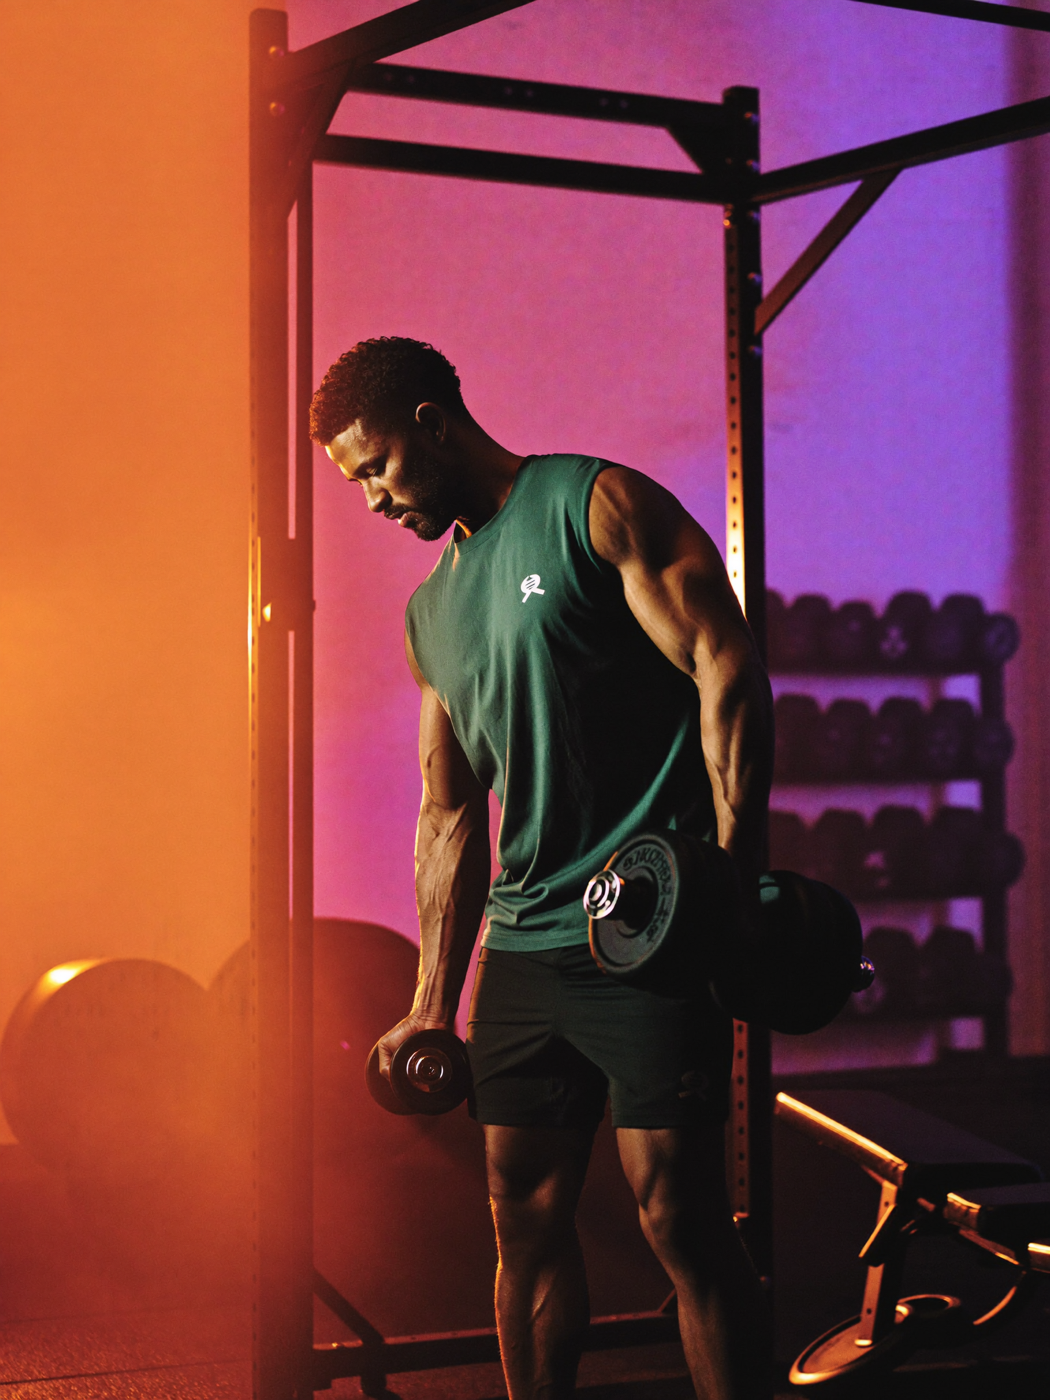
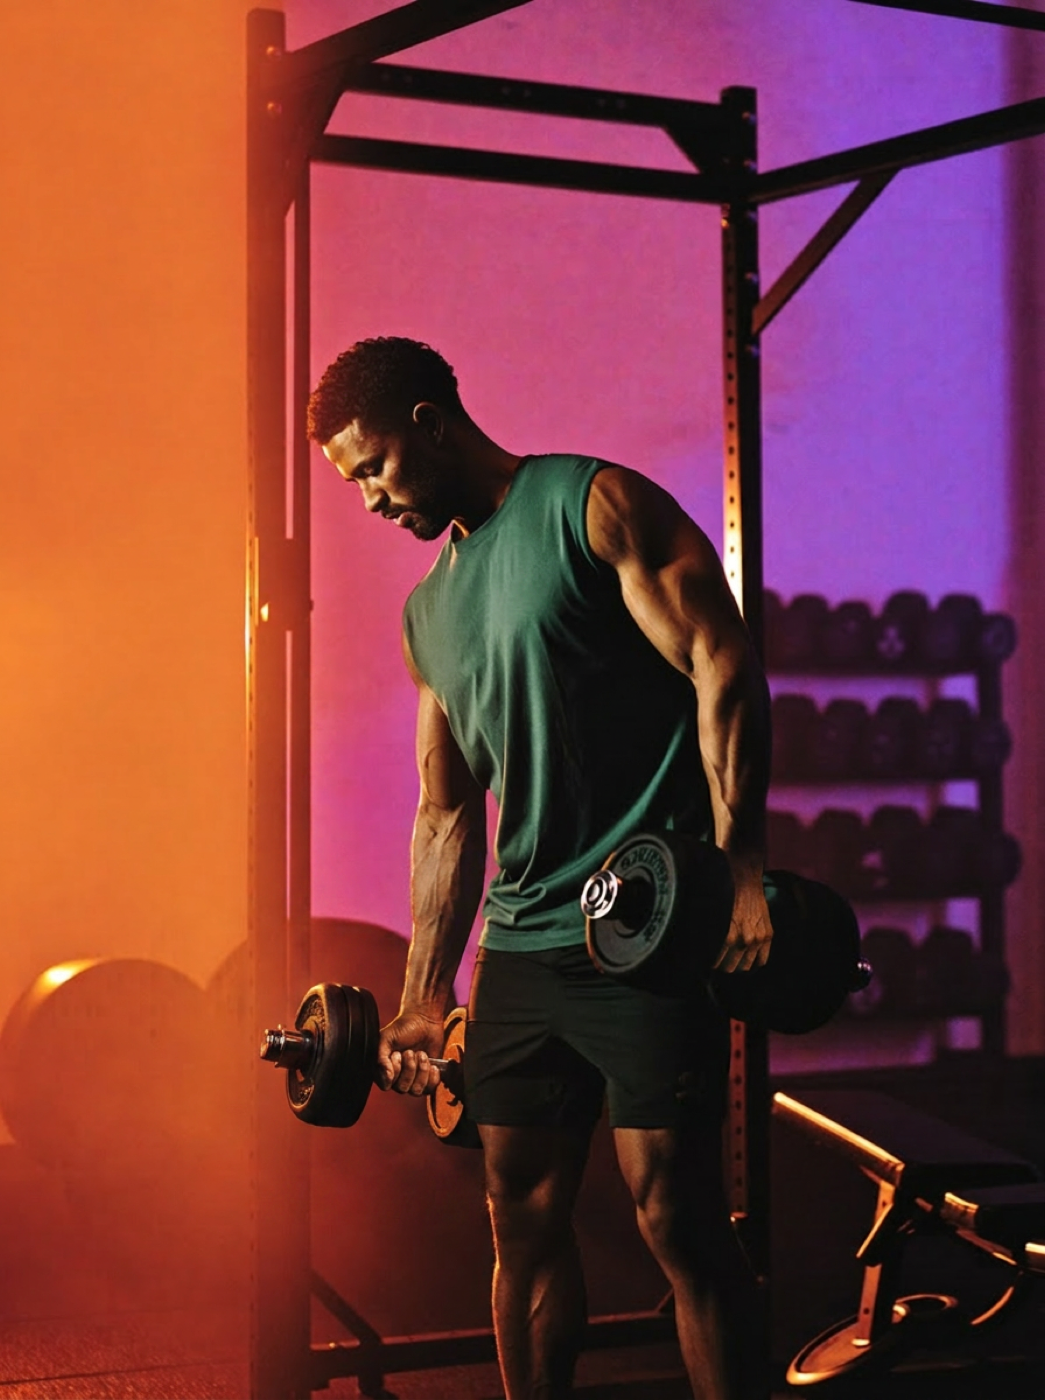
Landing polish: hero legibility, nav hover, gapless marquee, glassmorphism
- Hero: add left scrim + headline drop-shadow + subcopy shadow for legibility;
  Explore-the-Feed (ghost) button is now frosted glass; stats sit in a glass panel
- Nav: glassmorphic bar + animated gradient underline indicator on link hover
- Marquee: repeat enough copies that the loop period always exceeds the viewport
  (was revealing empty space at the end before restarting) — now truly seamless
- Three feature pillars: larger title/body/bullet text
- Global depth pass: .card / .chip / .btn-ghost get blur, layered bg, inset
  highlight and shadows (less flat); new .glass utility
- Fix pillar 1 dumbbell grip and regenerate CTA group to fill the frame
- Step badges already anchored in image corners

diff --git a/src/app/page.tsx b/src/app/page.tsx
@@ -88,15 +88,17 @@ export default function HomePage() {
         />
         {/* Cinematic overlays — keep text legible, deepen brand mood */}
         <div className="absolute inset-0" style={{ background: "linear-gradient(180deg, rgba(10,10,15,.82) 0%, rgba(10,10,15,.25) 38%, rgba(10,10,15,.55) 72%, rgba(10,10,15,.96) 100%)" }} />
+        {/* Left scrim so hero copy stays readable over the photo */}
+        <div className="absolute inset-0" style={{ background: "linear-gradient(90deg, rgba(10,10,15,.92) 0%, rgba(10,10,15,.66) 30%, rgba(10,10,15,.2) 56%, transparent 78%)" }} />
         <div className="absolute inset-0" style={{ background: "radial-gradient(ellipse at 12% 88%, rgba(120,45,15,.45) 0%, transparent 48%), radial-gradient(ellipse at 88% 8%, rgba(90,45,130,.4) 0%, transparent 46%)" }} />
 
         <div className="relative z-10 w-full max-w-[1160px] mx-auto px-8 pb-20 pt-[140px]">
           <span className="chip mb-6 inline-block animate-fadeUp">The social fitness app built around you</span>
-          <h1 style={{ ...bebas, lineHeight: 0.86, letterSpacing: 1, animation: "fadeUp 0.7s ease 0.1s both" }}>
+          <h1 style={{ ...bebas, lineHeight: 0.86, letterSpacing: 1, filter: "drop-shadow(0 3px 16px rgba(0,0,0,.6))", animation: "fadeUp 0.7s ease 0.1s both" }}>
             <span className="text-gradient-white block text-[clamp(56px,11vw,150px)]">FORGE THE</span>
             <span className="text-gradient-brand block text-[clamp(56px,11vw,150px)]">BEST OF YOU</span>
           </h1>
-          <p className="text-[clamp(15px,1.9vw,19px)] max-w-[520px] leading-[1.65] mt-6 mb-9 font-light" style={{ color: "rgba(255,255,255,.7)", animation: "fadeUp 0.7s ease 0.2s both" }}>
+          <p className="text-[clamp(15px,1.9vw,19px)] max-w-[520px] leading-[1.65] mt-6 mb-9 font-light" style={{ color: "rgba(255,255,255,.85)", textShadow: "0 1px 12px rgba(0,0,0,.6)", animation: "fadeUp 0.7s ease 0.2s both" }}>
             Set your goals and gear. Follow guided workouts that earn you XP.
             Challenge your friends on the feed. This is training with a crew behind you.
           </p>
@@ -108,11 +110,11 @@ export default function HomePage() {
             No credit card needed · 1-day workouts free forever
           </p>
 
-          <div className="flex gap-[44px] flex-wrap mt-14 pt-9 border-t" style={{ borderColor: "rgba(255,255,255,.12)", animation: "fadeUp 0.7s ease 0.45s both" }}>
+          <div className="glass inline-flex gap-[40px] gap-y-5 flex-wrap mt-12 px-7 py-5 rounded-3xl" style={{ animation: "fadeUp 0.7s ease 0.45s both" }}>
             {stats.map(([num, label]) => (
               <div key={label}>
                 <div className="text-gradient-white text-[clamp(34px,4vw,48px)] leading-none" style={bebas}>{num}</div>
-                <div className="text-[10px] tracking-[2px] uppercase mt-1.5" style={{ color: "rgba(255,255,255,.5)" }}>{label}</div>
+                <div className="text-[10px] tracking-[2px] uppercase mt-1.5" style={{ color: "rgba(255,255,255,.6)" }}>{label}</div>
               </div>
             ))}
           </div>
@@ -161,11 +163,11 @@ export default function HomePage() {
               {/* Text */}
               <div className={p.flip ? "md:order-1" : ""}>
                 <span className="chip mb-5 inline-block" style={{ color: p.accent, borderColor: "rgba(255,255,255,.16)" }}>{p.chip}</span>
-                <h3 className="text-white whitespace-pre-line mb-5" style={{ ...bebas, fontSize: "clamp(34px,4.5vw,58px)", lineHeight: 0.94 }}>{p.title}</h3>
-                <p className="text-[15.5px] leading-[1.75] font-light mb-7" style={{ color: "rgba(255,255,255,.55)" }}>{p.desc}</p>
+                <h3 className="text-white whitespace-pre-line mb-5" style={{ ...bebas, fontSize: "clamp(38px,5vw,66px)", lineHeight: 0.94 }}>{p.title}</h3>
+                <p className="text-[17px] leading-[1.75] font-light mb-7" style={{ color: "rgba(255,255,255,.62)" }}>{p.desc}</p>
                 <ul className="flex flex-col gap-3 mb-8">
                   {p.bullets.map((b) => (
-                    <li key={b} className="flex items-center gap-3 text-[14px] font-light" style={{ color: "rgba(255,255,255,.75)" }}>
+                    <li key={b} className="flex items-center gap-3 text-[15px] font-light" style={{ color: "rgba(255,255,255,.8)" }}>
                       <span className="flex items-center justify-center rounded-full shrink-0 text-[11px] font-bold text-white" style={{ width: 22, height: 22, background: "linear-gradient(135deg, var(--og), var(--pm))" }}>✓</span>
                       {b}
                     </li>

diff --git a/src/app/globals.css b/src/app/globals.css
@@ -107,15 +107,15 @@ body::before {
   display: inline-flex;
   align-items: center;
   gap: 8px;
-  background: rgba(255,255,255,0.06);
-  color: rgba(255,255,255,0.6);
+  background: rgba(255,255,255,0.1);
+  color: rgba(255,255,255,0.92);
   padding: 11px 24px;
   border-radius: 100px;
   font-size: 11px;
-  font-weight: 500;
+  font-weight: 600;
   letter-spacing: 1.5px;
   text-transform: uppercase;
-  border: 1px solid rgba(255,255,255,0.12);
+  border: 1px solid rgba(255,255,255,0.22);
   cursor: pointer;
   transition: all 0.25s;
   font-family: 'DM Sans', sans-serif;
@@ -123,16 +123,31 @@ body::before {
   overflow: hidden;
   text-overflow: ellipsis;
   white-space: nowrap;
+  backdrop-filter: blur(14px) saturate(140%);
+  -webkit-backdrop-filter: blur(14px) saturate(140%);
+  box-shadow: 0 4px 18px rgba(0,0,0,0.28), inset 0 1px 0 rgba(255,255,255,0.14);
 }
-.btn-ghost:hover { color: #fff; background: rgba(255,255,255,0.1); border-color: rgba(255,255,255,0.2); }
+.btn-ghost:hover { color: #fff; background: rgba(255,255,255,0.18); border-color: rgba(255,255,255,0.38); transform: translateY(-1px); }
 .btn-ghost:disabled { opacity: 0.4; cursor: not-allowed; }
 
 .card {
-  background: rgba(255,255,255,0.03);
+  background: linear-gradient(180deg, rgba(255,255,255,0.06), rgba(255,255,255,0.02));
   border: 1px solid var(--br);
   border-radius: 20px;
   overflow: hidden;
   word-break: break-word;
+  backdrop-filter: blur(12px) saturate(120%);
+  -webkit-backdrop-filter: blur(12px) saturate(120%);
+  box-shadow: 0 12px 34px rgba(0,0,0,0.4), inset 0 1px 0 rgba(255,255,255,0.07);
+}
+
+/* Frosted-glass surface utility */
+.glass {
+  background: linear-gradient(180deg, rgba(255,255,255,0.1), rgba(255,255,255,0.04));
+  border: 1px solid rgba(255,255,255,0.16);
+  backdrop-filter: blur(16px) saturate(140%);
+  -webkit-backdrop-filter: blur(16px) saturate(140%);
+  box-shadow: 0 8px 32px rgba(0,0,0,0.35), inset 0 1px 0 rgba(255,255,255,0.12);
 }
 
 .chip {
@@ -140,12 +155,15 @@ body::before {
   font-size: 10px;
   letter-spacing: 2px;
   text-transform: uppercase;
-  color: rgba(255,255,255,0.5);
-  border: 1px solid rgba(255,255,255,0.12);
-  background: rgba(255,255,255,0.04);
+  color: rgba(255,255,255,0.62);
+  border: 1px solid rgba(255,255,255,0.16);
+  background: rgba(255,255,255,0.07);
+  backdrop-filter: blur(10px);
+  -webkit-backdrop-filter: blur(10px);
   padding: 5px 14px;
   border-radius: 100px;
   font-weight: 500;
+  box-shadow: inset 0 1px 0 rgba(255,255,255,0.08);
 }
 
 .input-field {

diff --git a/src/components/nav.tsx b/src/components/nav.tsx
@@ -24,7 +24,7 @@ export function Nav() {
 
   return (
     <>
-      <nav className="fixed top-0 left-0 right-0 z-[500] px-10 py-3.5 flex items-center justify-between backdrop-blur-[20px]" style={{ background: "rgba(10,10,15,.6)" }}>
+      <nav className="fixed top-0 left-0 right-0 z-[500] px-10 py-3.5 flex items-center justify-between" style={{ background: "rgba(10,10,15,.55)", backdropFilter: "blur(22px) saturate(150%)", WebkitBackdropFilter: "blur(22px) saturate(150%)", borderBottom: "1px solid rgba(255,255,255,.08)", boxShadow: "0 8px 30px rgba(0,0,0,.35)" }}>
         <Link href="/" className="no-underline" style={bebas}>
           <span className="text-[22px] tracking-[3px] text-white opacity-90">
             FIT<span style={{ color: "var(--og)" }}>FORGE</span>
@@ -35,10 +35,14 @@ export function Nav() {
             <Link
               key={link.href}
               href={link.href}
-              className="hide-mobile text-[11px] tracking-[2px] uppercase font-medium no-underline transition-colors hover:text-white/85"
-              style={{ color: "rgba(255,255,255,.45)" }}
+              className="hide-mobile relative group text-[11px] tracking-[2px] uppercase font-medium no-underline transition-colors duration-200 hover:text-white py-1"
+              style={{ color: "rgba(255,255,255,.55)" }}
             >
               {link.label}
+              <span
+                className="absolute left-0 -bottom-0.5 h-[2px] w-full origin-left scale-x-0 rounded-full transition-transform duration-300 ease-out group-hover:scale-x-100"
+                style={{ background: "linear-gradient(135deg, var(--og), var(--og2), var(--pm))" }}
+              />
             </Link>
           ))}
           {session?.user ? (

diff --git a/src/components/marquee.tsx b/src/components/marquee.tsx
@@ -3,14 +3,20 @@
 const bebas = { fontFamily: "'Bebas Neue', sans-serif" };
 
 export function Marquee({ items, reverse = false }: { items: string[]; reverse?: boolean }) {
-  const doubled = [...items, ...items];
+  // Repeat the list several times so the loop period (half the track) is always
+  // wider than any viewport — otherwise translating -50% reveals empty space at
+  // the end before the loop restarts. Duration scales with the copies so the
+  // perceived scroll speed stays constant.
+  const COPIES = 8;
+  const repeated = Array.from({ length: COPIES }, () => items).flat();
+  const duration = (reverse ? 26 : 22) * (COPIES / 2);
   return (
     <div className="overflow-hidden py-5" style={{ borderTop: "1px solid var(--br)", borderBottom: "1px solid var(--br)" }}>
       <div
         className="flex w-max"
-        style={{ animation: `${reverse ? "marquee-reverse" : "marquee"} ${reverse ? "26s" : "22s"} linear infinite` }}
+        style={{ animation: `${reverse ? "marquee-reverse" : "marquee"} ${duration}s linear infinite` }}
       >
-        {doubled.map((item, i) => (
+        {repeated.map((item, i) => (
           <span key={i} className="flex items-center gap-[18px] whitespace-nowrap text-[16px] tracking-[3px] mr-[60px]" style={{ ...bebas, color: "rgba(255,255,255,.18)" }}>
             {item}
             <span className="inline-block w-1 h-1 rounded-full shrink-0" style={{ background: "linear-gradient(135deg, var(--og), var(--pl))" }} />
